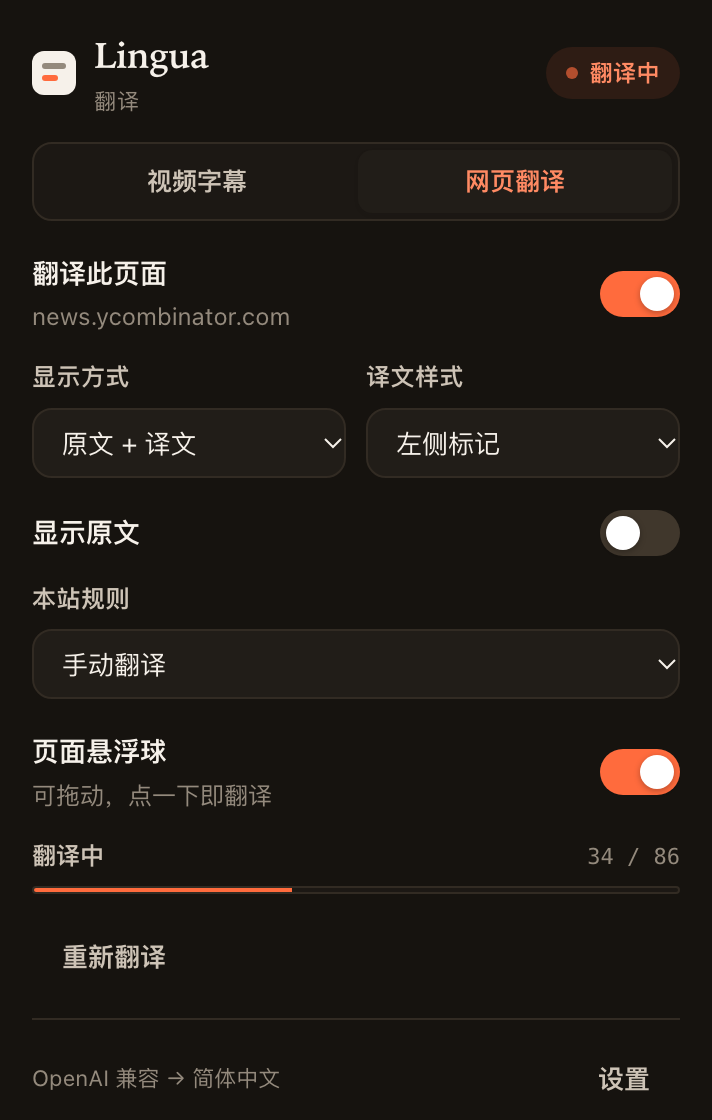
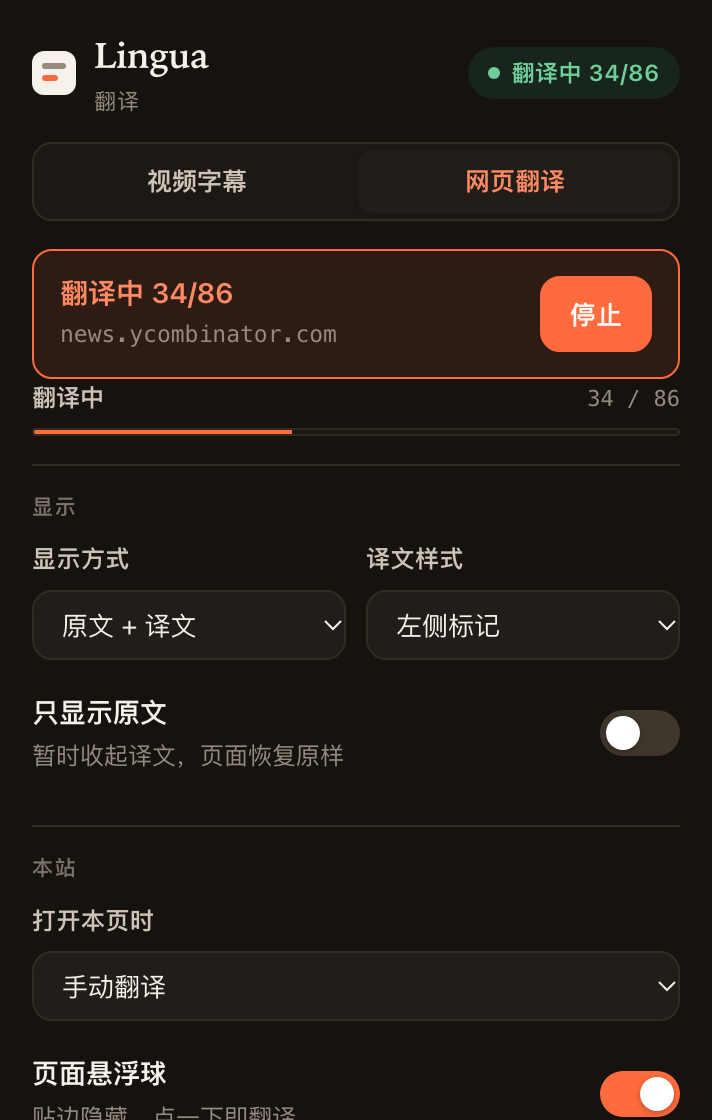
feat(popup): 与悬浮球实时同步状态，并重做弹窗 UI
问题：弹窗不跟悬浮球状态同步。两个根因：
1) renderStatic() 里残留一行 ui.pageEnabled.checked = false —— 任何设置变更都会把
   「翻译此页面」视觉上重置成关闭，要等下一次轮询才纠正。
2) 弹窗只靠 900ms 轮询，跟不上页面状态变化。

修法：
- 改为推送：页面在 syncBall() 里广播 lingua:page-state，弹窗监听后立刻重渲染；
  轮询降级为 2.5s 兜底（页面脚本重启可能漏掉广播）。广播做节流：状态变化立即发，
  纯进度更新 400ms 一次。
- 抽一个 pageStatusText()，弹窗与悬浮球使用同一套措辞（翻译中 34/86 / 已翻译 442/442
  / 出错：…）。两边说法不一致本身就是用户感知到的「不同步」。

弹窗 UI 重做：
- 顶部改为状态卡（状态文字 + 域名 + 主操作按钮），与悬浮球交互一一对应
- 「翻译此页面」开关改为按钮 —— 它是动作不是状态
- 面板按「显示」「本站」分组并加分组标题
- 「显示原文」改为「只显示原文 · 暂时收起译文，页面恢复原样」

测试：test-core 77 + test-dom 51 + e2e 65，全绿（新增 5 项验证状态广播链路）

diff --git a/src/popup/popup.js b/src/popup/popup.js
@@ -30,7 +30,9 @@
     retranslate: el('retranslate'),
     // page
     pageHost: el('pageHost'),
-    pageEnabled: el('pageEnabled'),
+    pageToggle: el('pageToggle'),
+    pageStateCard: el('pageStateCard'),
+    pageStateTitle: el('pageStateTitle'),
     pageMode: el('pageMode'),
     pageStyle: el('pageStyle'),
     pageShowOriginal: el('pageShowOriginal'),
@@ -137,7 +139,6 @@
       btn.setAttribute('aria-pressed', String(btn.dataset.mode === settings.displayMode));
     }
 
-    ui.pageEnabled.checked = false;
     ui.pageMode.value = (settings.page && settings.page.displayMode) || 'bilingual';
     ui.pageStyle.value = (settings.page && settings.page.style) || 'underline';
     ui.pageBall.checked = !settings.page || settings.page.showBall !== false;
@@ -194,15 +195,31 @@
     }
   }
 
+  /**
+   * The same wording the floating ball uses, so the two controls always read
+   * identically — a popup that says something different from the ball on the
+   * page is exactly the desync users notice.
+   */
+  function pageStatusText(p) {
+    if (p.status === 'error') return p.error ? `出错：${p.error}` : '翻译出错';
+    if (p.status === 'scanning') return '正在扫描页面…';
+    if (p.status === 'translating') return `翻译中 ${p.done || 0}/${p.total || 0}`;
+    if (p.active) return p.total ? `已翻译 ${p.done || 0}/${p.total || 0}` : '已开启';
+    return '未翻译';
+  }
+
   function renderPagePanel(state) {
     const p = state.page || {};
-    const meta = PAGE_STATUS[p.status] || PAGE_STATUS.idle;
-    if (activeTab === 'page') setStatus(meta.tone, meta.text);
+    const tone = p.status === 'error' ? 'err' : p.active ? 'ok' : 'idle';
+    if (activeTab === 'page') setStatus(tone, pageStatusText(p));
 
-    ui.pageHost.textContent = state.host || location.hostname;
+    ui.pageHost.textContent = state.host || '—';
+    ui.pageStateTitle.textContent = pageStatusText(p);
+    ui.pageStateCard.dataset.tone = p.status === 'error' ? 'err' : p.active ? 'on' : 'idle';
+    ui.pageToggle.textContent = p.active ? '停止' : '开始翻译';
+    ui.pageToggle.disabled = !state.supported && state.supported !== undefined ? !state.supported : false;
 
     syncing = true;
-    ui.pageEnabled.checked = !!p.active;
     ui.pageShowOriginal.checked = !!p.showOriginal;
     if (p.mode) ui.pageMode.value = p.mode;
     if (p.style) ui.pageStyle.value = p.style;
@@ -222,9 +239,11 @@
     if (p.error) {
       setNote(ui.pageNote, p.error, 'err');
     } else if (p.rule === 'skip') {
-      setNote(ui.pageNote, '已把本站设为「不翻译」。', 'info');
+      setNote(ui.pageNote, '已把本站设为「不翻译」。改回「手动翻译」即可恢复。', 'info');
     } else if (!NS.settings.providerReady(settings)) {
       setNote(ui.pageNote, '尚未配置翻译服务，请前往设置填写 API。', 'warn');
+    } else if (!p.active && p.showBall !== false) {
+      setNote(ui.pageNote, '提示：页面上的悬浮球也能直接开始翻译。', 'info');
     } else {
       setNote(ui.pageNote, '');
     }
@@ -256,7 +275,25 @@
 
   function startPolling() {
     clearInterval(pollTimer);
-    pollTimer = setInterval(queryState, 900);
+    // Push updates do the real work; this is only a safety net for the case where
+    // the page script restarts and misses a broadcast.
+    pollTimer = setInterval(queryState, 2500);
+  }
+
+  /**
+   * The content script broadcasts every meaningful state change, so the popup
+   * tracks the floating ball in real time instead of waiting for a poll tick.
+   */
+  function listenForPageState() {
+    try {
+      chrome.runtime.onMessage.addListener((msg) => {
+        if (!msg || msg.type !== 'lingua:page-state') return;
+        lastState = Object.assign({}, lastState || {}, { page: msg.page, host: msg.host });
+        renderPagePanel(lastState);
+      });
+    } catch (e) {
+      /* not available */
+    }
   }
 
   // ---------------------------------------------------------------------------
@@ -333,15 +370,17 @@
     });
 
     // ---- page ----
-    ui.pageEnabled.addEventListener('change', async () => {
+    // One button, exactly like clicking the floating ball.
+    ui.pageToggle.addEventListener('click', async () => {
       if (syncing) return;
-      const want = ui.pageEnabled.checked;
+      const wantStop = ui.pageToggle.textContent.trim() === '停止';
+      ui.pageToggle.disabled = true;
       const res = await send('lingua:page-toggle');
       if (!res.ok) {
-        ui.pageEnabled.checked = false;
         setNote(ui.pageNote, res.error || '无法启动网页翻译', 'err');
       }
-      setTimeout(queryState, want ? 300 : 120);
+      ui.pageToggle.disabled = false;
+      setTimeout(queryState, wantStop ? 120 : 250);
     });
 
     ui.pageMode.addEventListener('change', async () => {
@@ -399,6 +438,7 @@
 
     if (supported) {
       tabId = tab.id;
+      listenForPageState();
       // Default to the panel that is useful for this page.
       switchTab(/youtube(-nocookie)?\.com\/(watch|shorts|live|embed)/.test(url) ? 'video' : 'page');
       queryState();
@@ -407,7 +447,7 @@
       switchTab('page');
       setStatus('warn', '不支持');
       setNote(ui.pageNote, '当前页面不支持翻译（仅支持 http/https 网页）。', 'info');
-      ui.pageEnabled.disabled = true;
+      ui.pageToggle.disabled = true;
       ui.pageRetranslate.disabled = true;
       ui.retranslate.disabled = true;
     }

diff --git a/src/popup/popup.html b/src/popup/popup.html
@@ -76,61 +76,13 @@
 
       <!-- ================= 网页翻译 ================= -->
       <section class="panel" data-panel="page" hidden>
-        <div class="pop__row">
-          <div>
-            <div class="pop__rowTitle">翻译此页面</div>
-            <div class="hint" id="pageHost">—</div>
+        <!-- state card: mirrors the floating ball exactly -->
+        <div class="stateCard" id="pageStateCard" data-tone="idle">
+          <div class="stateCard__text">
+            <div class="stateCard__title" id="pageStateTitle">未翻译</div>
+            <div class="stateCard__sub" id="pageHost">—</div>
           </div>
-          <label class="switch">
-            <input type="checkbox" id="pageEnabled" />
-            <span class="switch__track"></span>
-          </label>
-        </div>
-
-        <div class="grid2">
-          <div class="field">
-            <label class="label" for="pageMode">显示方式</label>
-            <select id="pageMode">
-              <option value="bilingual">原文 + 译文</option>
-              <option value="replace">仅译文</option>
-            </select>
-          </div>
-          <div class="field">
-            <label class="label" for="pageStyle">译文样式</label>
-            <select id="pageStyle">
-              <option value="underline">左侧标记</option>
-              <option value="plain">纯文本</option>
-              <option value="highlight">底色高亮</option>
-            </select>
-          </div>
-        </div>
-
-        <div class="pop__row pop__row--tight">
-          <div class="pop__rowTitle">显示原文</div>
-          <label class="switch">
-            <input type="checkbox" id="pageShowOriginal" />
-            <span class="switch__track"></span>
-          </label>
-        </div>
-
-        <div class="field">
-          <label class="label" for="siteRule">本站规则</label>
-          <select id="siteRule">
-            <option value="manual">手动翻译</option>
-            <option value="auto">自动翻译</option>
-            <option value="skip">不翻译</option>
-          </select>
-        </div>
-
-        <div class="pop__row pop__row--tight">
-          <div>
-            <div class="pop__rowTitle">页面悬浮球</div>
-            <div class="hint">可拖动，点一下即翻译</div>
-          </div>
-          <label class="switch">
-            <input type="checkbox" id="pageBall" />
-            <span class="switch__track"></span>
-          </label>
+          <button class="btn btn--primary" id="pageToggle" type="button">开始翻译</button>
         </div>
 
         <div class="pop__progress" id="pageProgressBox" hidden>
@@ -142,6 +94,59 @@
         </div>
 
         <div class="pop__note" id="pageNote" hidden></div>
+
+        <div class="pop__group">
+          <div class="pop__groupTitle">显示</div>
+          <div class="grid2">
+            <div class="field">
+              <label class="label" for="pageMode">显示方式</label>
+              <select id="pageMode">
+                <option value="bilingual">原文 + 译文</option>
+                <option value="replace">仅译文</option>
+              </select>
+            </div>
+            <div class="field">
+              <label class="label" for="pageStyle">译文样式</label>
+              <select id="pageStyle">
+                <option value="underline">左侧标记</option>
+                <option value="plain">纯文本</option>
+                <option value="highlight">底色高亮</option>
+              </select>
+            </div>
+          </div>
+          <div class="pop__row pop__row--tight">
+            <div>
+              <div class="pop__rowTitle">只显示原文</div>
+              <div class="hint">暂时收起译文，页面恢复原样</div>
+            </div>
+            <label class="switch">
+              <input type="checkbox" id="pageShowOriginal" />
+              <span class="switch__track"></span>
+            </label>
+          </div>
+        </div>
+
+        <div class="pop__group">
+          <div class="pop__groupTitle">本站</div>
+          <div class="field">
+            <label class="label" for="siteRule">打开本页时</label>
+            <select id="siteRule">
+              <option value="manual">手动翻译</option>
+              <option value="auto">自动翻译</option>
+              <option value="skip">不翻译</option>
+            </select>
+          </div>
+          <div class="pop__row pop__row--tight">
+            <div>
+              <div class="pop__rowTitle">页面悬浮球</div>
+              <div class="hint">贴边隐藏，点一下即翻译</div>
+            </div>
+            <label class="switch">
+              <input type="checkbox" id="pageBall" />
+              <span class="switch__track"></span>
+            </label>
+          </div>
+        </div>
 
         <div class="pop__actions">
           <button class="btn btn--ghost" id="pageRetranslate" type="button">重新翻译</button>

diff --git a/src/content/page/index.js b/src/content/page/index.js
@@ -237,15 +237,45 @@
 
   /** Push the current pipeline state into the floating ball. */
   function syncBall() {
-    if (!page.ball) return;
-    page.ball.setStatus({
-      active: state.active,
-      status: state.status,
-      done: state.done,
-      total: state.total,
-      error: state.error,
-      showSource: state.showOriginal,
-    });
+    if (page.ball) {
+      page.ball.setStatus({
+        active: state.active,
+        status: state.status,
+        done: state.done,
+        total: state.total,
+        error: state.error,
+        showSource: state.showOriginal,
+      });
+    }
+    broadcastState();
+  }
+
+  let lastBroadcastKey = '';
+  let lastBroadcastAt = 0;
+
+  /**
+   * Tell the popup about state changes.
+   *
+   * The popup cannot observe the page directly, and polling alone leaves it
+   * visibly lagging behind the floating ball — which users read as "the popup is
+   * out of sync". Progress ticks are throttled; status changes always go out.
+   */
+  function broadcastState() {
+    const s = status();
+    const key = `${s.active}|${s.status}|${s.done}|${s.total}|${s.showOriginal}|${s.error}`;
+    const now = Date.now();
+    const progressOnly = key.replace(/\|\d+\|\d+\|/, '||') === lastBroadcastKey.replace(/\|\d+\|\d+\|/, '');
+    if (key === lastBroadcastKey && now - lastBroadcastAt < 1500) return;
+    if (progressOnly && now - lastBroadcastAt < 400) return;
+    lastBroadcastKey = key;
+    lastBroadcastAt = now;
+    try {
+      chrome.runtime.sendMessage({ type: 'lingua:page-state', page: s, host: s.host }, () => {
+        void chrome.runtime.lastError; // no popup open — expected
+      });
+    } catch (e) {
+      /* no receiver */
+    }
   }
 
   /**
@@ -498,6 +528,7 @@
       mode: state.mode,
       style: state.style,
       showOriginal: state.showOriginal,
+      showBall: !settings || !settings.page || settings.page.showBall !== false,
       host: hostname(),
       rule: settings ? siteRule(settings) : 'manual',
       auto: settings ? shouldAutoTranslate(settings) : false,

diff --git a/src/popup/popup.css b/src/popup/popup.css
@@ -158,3 +158,72 @@ select {
 .panel .field:last-of-type {
   margin-bottom: 12px;
 }
+
+/* --- state card: mirrors the floating ball exactly ----------------------- */
+.stateCard {
+  display: flex;
+  align-items: center;
+  justify-content: space-between;
+  gap: 12px;
+  padding: 12px 13px;
+  border: 1px solid var(--line);
+  border-radius: var(--r-md);
+  background: var(--surface);
+  transition: border-color var(--dur) var(--ease), background var(--dur) var(--ease);
+}
+.stateCard__title {
+  font-size: 14px;
+  font-weight: 600;
+  line-height: 1.3;
+}
+.stateCard__sub {
+  font-size: 11.5px;
+  color: var(--ink-3);
+  margin-top: 3px;
+  font-family: var(--font-mono);
+  word-break: break-all;
+}
+.stateCard[data-tone="on"] {
+  border-color: var(--accent);
+  background: var(--accent-soft);
+}
+.stateCard[data-tone="on"] .stateCard__title {
+  color: var(--accent-ink);
+}
+.stateCard[data-tone="err"] {
+  border-color: var(--err);
+  background: var(--err-soft);
+}
+.stateCard[data-tone="err"] .stateCard__title {
+  color: var(--err);
+}
+
+.btn--primary {
+  background: var(--accent);
+  color: #fff;
+  border-color: var(--accent);
+  font-weight: 600;
+  flex: none;
+}
+.btn--primary:hover {
+  filter: brightness(1.08);
+}
+.btn--primary:disabled {
+  opacity: .55;
+}
+
+/* --- grouped sections ---------------------------------------------------- */
+.pop__group {
+  margin-top: 14px;
+  padding-top: 12px;
+  border-top: 1px solid var(--line);
+}
+.pop__groupTitle {
+  font-size: 10.5px;
+  font-weight: 700;
+  letter-spacing: .08em;
+  text-transform: uppercase;
+  color: var(--ink-3);
+  opacity: .8;
+  margin-bottom: 9px;
+}
